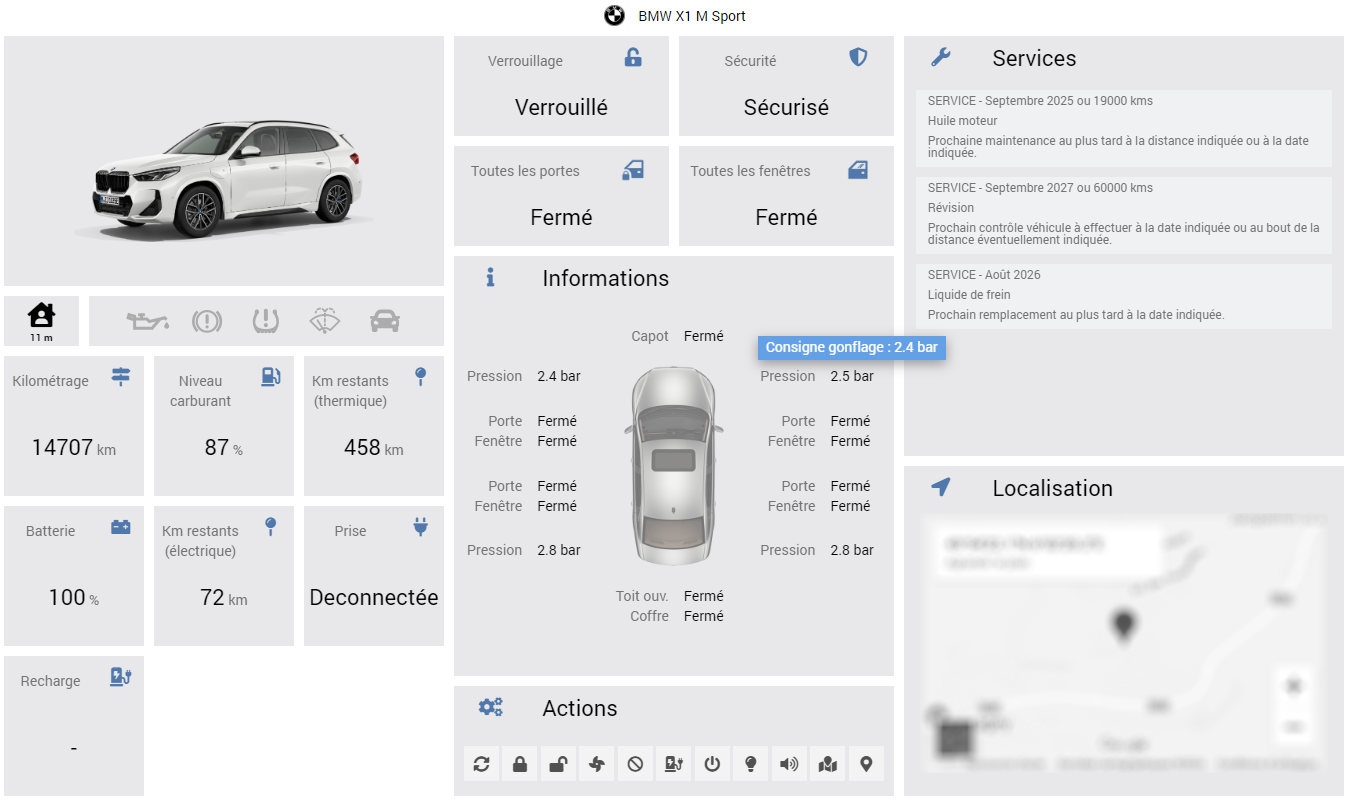
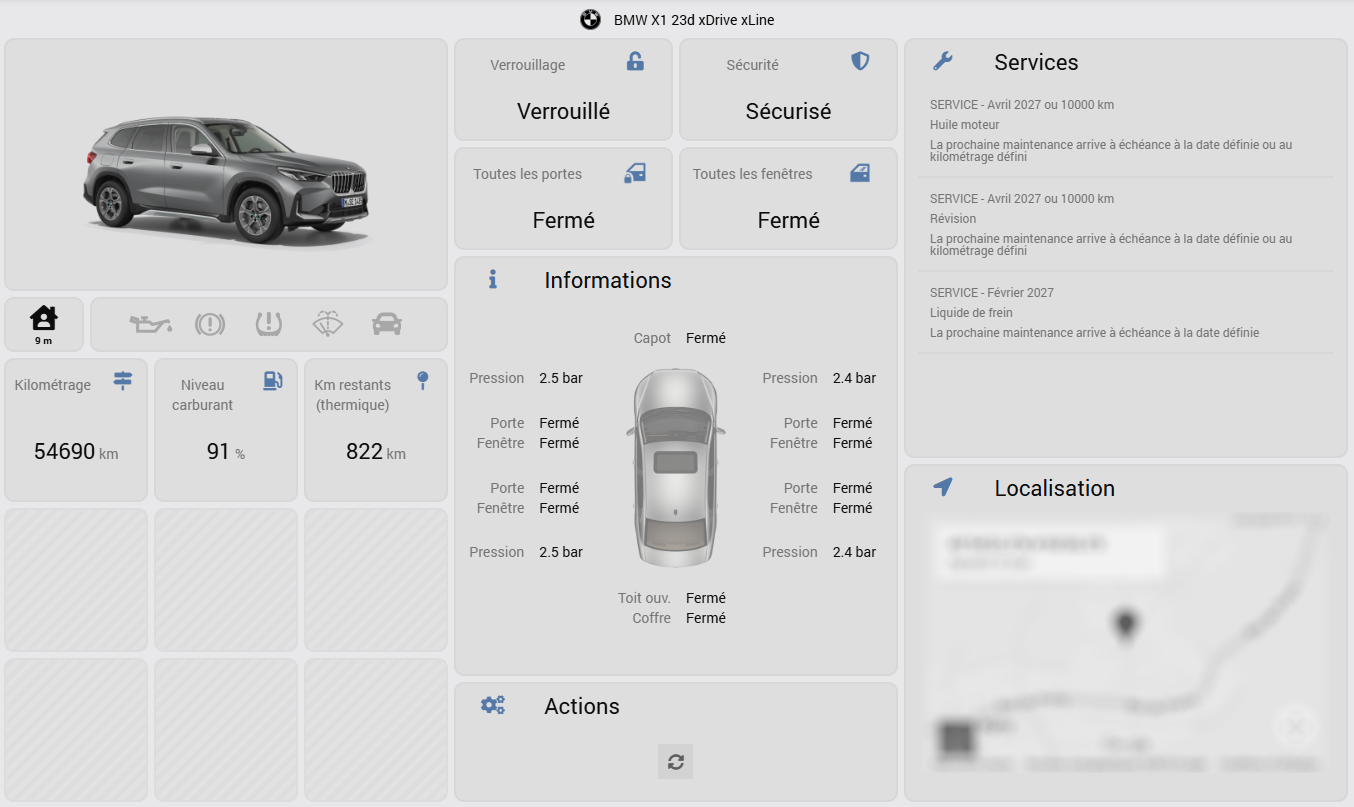
update myBMW docs

diff --git a/myBMW/fr_FR/index.md b/myBMW/fr_FR/index.md
@@ -11,19 +11,56 @@ Ce plugin vous permet d'interagir avec votre véhicule **BMW** ou **Mini** équi
 
 > **Tip**
 >
-> La **version minimale de Jeedom** nécessaire au bon fonctionnement du plugin est la **version 4.0**
-> Le plugin est d'ors et déjà compatible avec la **version 4.4** de Jeedom ainsi que les **versions Debian 11 & 12**
+> La **version minimale de Jeedom** nécessaire au bon fonctionnement du plugin est la **version 4.2**
+> Le plugin est d'ors et déjà compatible avec la **version 4.5** de Jeedom ainsi que les **versions Debian 11 & 12**
 
 
 # Principe 
 
-Ce plugin interagit avec les API BMW Connected Drive au travers du cloud, par conséquent **ce plugin nécessite une connexion Internet**.
-Il faut également détenir un abonnement en cours de validité aux services BMW Connected Drive pour votre véhicule ainsi qu'un compte utilisateur valide pour l'application "My BMW" ou "Mini".
+Ce plugin interagit avec les **API officielles BMW Connected Drive** au travers du cloud, par conséquent **ce plugin nécessite une connexion Internet**.
+Il faut également détenir un abonnement en cours de validité aux services BMW Connected Drive pour votre véhicule ainsi qu'un compte utilisateur **principal** valide pour l'application "My BMW" ou "Mini".
+
+
+# Configuration de votre compte utilisateur BMW ou Mini
+
+Avant de pouvoir utiliser le plugin, vous devez configurez votre compte utilisateur BMW. Veuillez suivre scrupuleusement les étapes suivantes :
+
+1. Connectez-vous sur le portail **BMW ConnectedDrive** (https://www.bmw.fr/fr-fr/mybmw/vehicle-overview) ou **Mini ConnectedDrive** (https://www.mini.fr/fr-fr/mymini/vehicle-overview)
+3. Cliquez sur l'icône **BMW CarData** 
+
+![CarData](../images/CarData_section.png)
+
+4. Cliquez sur le bouton **"Créer un client CarData"**
+5. Copiez **l'ID client** en lieu sûr !
+4. Attendez **30 secondes**
+6. Cliquez sur **"Demander l'accès au CarData API"**
+7. Attendez **30 secondes** (si le toggle ne repasse pas à "off" et que vous n'avez pas de message d'erreur, vous pouvez continuer, sinon vous devez recommencer cette étape)
+8. Cliquez sur **"CarData Streaming"**
+9. Attendez **30 secondes** (si le toggle ne repasse pas à "off" et que vous n'avez pas de message d'erreur, vous pouvez continuer, sinon vous devez recommencer cette étape)
+
+![CarData](../images/CarData_clientID.png)
+
+10. Allez à la section **CarData Stream**
+11. Vérifiez que l'état de la connexion est bien à **"ready"**
+
+![CarData](../images/CarData_stream.png)
+
+12. Cliquez sur le bouton **"Modifier la sélection des données"**
+13. Sélectionnez **"Toutes les catégories"** (Vehicle Status, Charging, Trip Data, etc.) puis cliquez à plusieurs reprise sur le bouton **Charger** pour afficher tous les attributs
+12. Sélectionnez **manuellement** les 244 attributs individuels ou appuyez sur F12 et entrez dans la **console développeur** et tapez : (pas de copié-collé possible)
+```
+document.querySelectorAll('label.chakra-checkbox:not([data-checked])').forEach(l => l.click());
+```
+14. Puis **sauvegardez** votre configuration
+15. Copiez **le username** en lieu sûr !
+
+**Il est important que tous les attributs soient cochés pour recevoir l'ensemble des données du véhicule.**
 
 
 # Configuration du plugin
 
-Après téléchargement du plugin, il vous suffit juste d’activer celui-ci, puis, si besoin, de configurer le cron personnalisé pour le rafraichissement des informations. Par défaut, celui-ci est sur la base de 30 min (voir chapitre 10).
+Après téléchargement du plugin, il vous suffit d’activer celui-ci, puis de configurer le client ID et le username récupérés dans l'étape précédente. Laissez les autres champs vides sauf demande express du développeur.
+Attendez ensuite la fin de l'installation des dépendances et le démarrage du démon.
 
 > **Tip**
 >
@@ -45,17 +82,14 @@ Cliquez sur la commande Ajouter pour créer un nouveau véhicule. Une fois ajout
 -   **Catégorie** : la catégorie de l’équipement
 -   **Activer** : permet de rendre votre équipement actif
 -   **Visible** : rend votre équipement visible sur le dashboard
--   **Identifiant** : indiquez votre identifiant My BMW que vous utilisez pour vous connecter sur l'application "My BMW" ou "Mini"
--   **Mot de passe** : indiquez votre mot de passe
 -   **Marque** : indiquez la marque de votre véhicule (BMW ou Mini)
 -   **VIN** : indiquez le numéro VIN ou Vehicle Identification Number (Numéro d’identification du véhicule). Vous pouvez retrouver ce numéro en case E de votre carte grise. Ce numéro est composé de 17 caractères.
--   **Paramètres de charge** : si votre véhicule électrique ou hybride rechargeable le permet, vous pouvez modifier l'objectif de recharge (en %) ainsi que la limite de courant de charge (en A).
 -   **Affichage état portes / fenêtres** : vous avez le choix entre 2 options pour l'affichage de l'état des portes et des fenêtres sur le panel : le mode texte ou le mode icône.
 -   **Couleur des icônes portes / fenêtres** : si vous avez choisi le mode icône, vous pouvez également décider de la couleur des icônes (vert ou noir & blanc).
 -   **Domicile (présence)** : vous disposez de 3 possibilités pour indiquer les coordonnées GPS de votre domicile : soit en utilisant les coordonnées renseignées dans Jeedom, soit en utilisant les coordonnées actuelles du véhicule, soit en renseignant manuellement la latitude et la longitude.
 -   **Distance max (en m)** : indiquez la distance maximale en mètre entre votre domicile et le véhicule pour que celui-ci soit considéré comme présent à votre domicile. 
 
-Il vous suffit ensuite de cliquer sur le bouton **Synchroniser** pour récupérer les informations de votre véhicule. Si celles-ci sont disponibles, vous obtiendrez le modèle, l'année, le type de motorisation ainsi qu'une image de votre véhicule.
+Il vous suffit ensuite de cliquer sur le bouton **Authentification** pour récupérer les informations de votre véhicule (Si celles-ci sont disponibles, vous obtiendrez le modèle, l'année, le type de motorisation ainsi qu'une image de votre véhicule). Une fenêtre pop-up s'ouvrira **(Attention au bloqueur de votre navigateur, désactivez le si nécessaire)** afin de vous authentifier avec les identifiants (email) et mot de passe de votre compte BMW. Vous disposez de 5 min pour cela et vous devriez obtenir un message **Connexion réussie** à l'issue.
 
 > **Tip**
 >
@@ -63,83 +97,6 @@ Il vous suffit ensuite de cliquer sur le bouton **Synchroniser** pour récupére
 > Lors de la sauvegarde, de nouvelles commandes vont se créer sur l'équipement.
 
 ![Equipement](../images/Eqpt_myBMW.png)
-
-
-# Captcha
-
-La première connexion nécessite la résolution d'un captcha. Les connexions suivantes (qui utiliseront le refresh du token) ne nécessiteront pas de captcha.
-Résolvez le captcha et copiez le "token" affiché dans la configuration de votre véhicule puis lancez la synchronisation. En cas d'erreur lors de cette première connexion, il vous faudra patienter 30min environ avant de faire un nouvel essai, le temps que votre compte soit débloqué.
-
-
-<html lang="en">
-<head>
-    <meta charset="UTF-8">
-    <meta name="viewport" content="width=device-width, initial-scale=1.0">
-    <title>Form with hCaptcha</title>
-</head>
-<body>
-    <p></p>
-    <div id="captchaResponse">
-        <div style="text-align: center;">
-            <form id="captcha_form" action="#" method="post">
-                <!-- hCaptcha widget -->
-                <div class="h-captcha" data-sitekey="7244955f-8f30-4445-adff-4fefe059f815"></div><br>
-                <button type="submit" class="btn">Submit</button>
-            </form>
-            <!-- hCaptcha script -->
-            <script src="https://hcaptcha.com/1/api.js" async defer></script>
-        </div>
-    </div>
-    <p></p>
-    <script>
-        document.getElementById('captcha_form').addEventListener('submit', function(event) {
-            event.preventDefault(); // Prevent the default form submission
-            const hCaptchaResponse = document.querySelector('[name="h-captcha-response"]').value;
-            const responseElement = document.getElementById('captchaResponse');
-            if (hCaptchaResponse) {
-                // Replace form and display the response
-                const hcaptchaDiv = document.createElement('div');
-                hcaptchaDiv.style.display = 'flex';
-                hcaptchaDiv.style.justifyContent = 'center';
-                hcaptchaDiv.style.alignItems = 'center';
-                responseElement.innerHTML = '';
-                responseElement.appendChild(hcaptchaDiv);
-                const hcaptchaPre = document.createElement('pre');
-                hcaptchaPre.style.width = '75%';
-                hcaptchaPre.style.height = '100%';
-                hcaptchaPre.style.wordBreak = 'break-all';
-                hcaptchaPre.style.whiteSpace = 'pre-wrap';
-                hcaptchaPre.style.border = '1px solid #ccc';
-                hcaptchaPre.style.borderRadius = '4px';
-                hcaptchaPre.style.padding = '10px';
-                hcaptchaPre.textContent = hCaptchaResponse;
-                hcaptchaDiv.appendChild(hcaptchaPre);
-                // Add a button to copy the data to clipboard
-                const copyButtonDiv = document.createElement('div');
-                copyButtonDiv.style.textAlign = 'center';
-                responseElement.appendChild(copyButtonDiv);
-                const copyButton = document.createElement('button');
-                copyButton.className = 'btn';
-                copyButton.textContent = 'Copy to Clipboard';
-                copyButtonDiv.appendChild(copyButton);
-                // Add event listener to button for copying the data to clipboard
-                copyButton.addEventListener('click', function() {
-                    const tempInput = document.createElement('textarea');
-                    tempInput.value = hCaptchaResponse;
-                    document.body.appendChild(tempInput);
-                    tempInput.select();
-                    document.execCommand('copy');
-                    document.body.removeChild(tempInput);
-                    alert('Copied');
-                });
-            }
-            else {
-                responseElement.innerHTML = 'No hCaptcha response received.';
-            }
-        });
-    </script>
-</body>
-</html>      
 
 
 # Données brutes
@@ -200,7 +157,7 @@ Il existe actuellement plusieurs commandes qui sont décrites ci-dessous.
 -   **Limitation du courant de charge** : donne l'information du statut de l'activation ou non d'une limite du courant de charge sur le véhicule
 -   **Coordonnées GPS** : remonte la position du véhicule sour la forme "latitude,longitude"
 -   **Dernière mise à jour** : donne la date et l'heure de la dernière connexion entre la voiture et les serveurs BMW
--   **Statut Déverrouiller** : renvoie le dernier statut recu lors d'une demande de déverrouillage. Si l'action a correctement été effectuée, le statut passe à de "PENDING" à "EXECUTED". Sinon renvoie "ERROR"
+-   **Statut Déverrouiller** : renvoie le dernier statut reçu lors d'une demande de déverrouillage. Si l'action a correctement été effectuée, le statut passe à de "PENDING" à "EXECUTED". Sinon renvoie "ERROR"
 -   **Statut Verrouiller**
 -   **Statut Charger**
 -   **Statut Stop charger**
@@ -228,6 +185,10 @@ Il existe actuellement plusieurs commandes qui sont décrites ci-dessous.
 -   **Rechercher** : localise le véhicule en temps réel et l'affiche sur une carte googlemaps
 -   **Envoi POI** : envoi d'un point d'intérêt (POI) dans le centre de messages du véhicule en saisissant le nom, la latitude et la longitude du lieu
 
+> **ATTENTION**
+>
+> A date, seule la fonction **Rafraichir** est opérationnelle. Les autres actions seront de nouveau fonctionnelles lorsque les API BMW le permettront !
+
 
 # Dashboard
 
@@ -252,14 +213,16 @@ Si vous avez coché l'option **Afficher le panneau desktop** dans la page de con
 
 ## Automatique
 
-Un CRON personnalisable est automatiquement créé (sur une base de 30 min par défaut) comme indiqué dans la configuration du plugin.
-
-**Attention** : vous pouvez modifier cette valeur de 30 min mais gare au nombre de requêtes autorisées par BMW sur leurs serveurs ! Je déconseille fortement de descendre en dessous de 15 min pour le moment. Votre adresse IP risque d'être bannie quelques heures ! Si vous êtes dans ce cas, désactivez cette tâche dans le moteur de tâches de Jeedom (menu Régalges / Système), patientez quelques heures puis resynchronisez et enfin réactivez la tâche. Cela devrait fonctionner.
-
+Grâce au stream MQTT, vous recevez la majorité des informations de votre véhicule en temps réel (kilométrage, carburant, batterie, état de verrouillage du véhicule, des portes et fenêtres, localisation, ...) !
+Un CRON est également créé (sur une base de 60 minutes) pour récupérer les informations non streamables (messages de contrôle, de services, historique de charge).
 
 ## Manuel
 
-Vous pouvez à tout moment utiliser la commande **Rafraichir** afin de rafraichir les statuts de véhicule.
+Vous pouvez à tout moment utiliser la commande **Rafraichir** afin de récupérer les statuts de véhicule.
+
+>**Attention**
+>
+>BMW autorise seulement 50 requêtes par jours donc ne rafraichissez pas manuellement trop souvent (le CRON actuel utilise 24 requêtes par jour) au risque d'être bloqué jusqu'au lendemain.
 
 
 # Roadmap & support
@@ -267,14 +230,15 @@ Vous pouvez à tout moment utiliser la commande **Rafraichir** afin de rafraichi
 Ce plugin évoluera au fil du temps en fonction de vos demandes et des possibilités des API BMW Connected Drive.
 
 Les prochaines versions verront arriver les features suivantes :
--   ...
+-   Ajout de nouvelles fonctionnalités en fonction des possibilités offertes par les API
 -   Traduction du plugin en anglais
+-   ...
 
 > **Tip**
 >
 >Vous pouvez faire votre demande d'amélioration en créant une issue "enhancement" sur [GitHub](https://github.com/Xav-74/myBMW/issues/new).
 >N'hésitez pas non plus à venir échanger sur ce plugin sur le Community Jeedom !
 
-En cas de dysfonctionnement, vous pouvez créer directement un sujet sur le Community depuis la page principale du plugin. Les informations utiles de Jeedom et du plugin sont automatiquement ajoutées. N'hésitez pas également à copier les logs verisure (mode debug) pour une résolution plus rapide !
+En cas de dysfonctionnement, vous pouvez créer directement un sujet sur le Community depuis la page principale du plugin. Les informations utiles de Jeedom et du plugin sont automatiquement ajoutées. N'hésitez pas également à copier les logs myBMW, myBMW_daemon, myBMW_update (mode debug) pour une résolution plus rapide !
 
 ![Community](../images/community.png)

diff --git a/myBMW/fr_FR/changelog.md b/myBMW/fr_FR/changelog.md
@@ -12,6 +12,15 @@ pluginId: myBMW
 **Remarque** : en cas de mise à jour non listée ici, c'est que celle-ci ne comporte que des changements mineurs du type documentation ou corrections de bugs mineurs.
 
 
+# 2025-11-09
+
+Ajout des fonctions suivantes :
+ - Bascule sur les **API officielles BMW**
+ - Mise en place du **stream MQTT** pour la récupération temps réel des informations
+
+ **ATTENTION** Il s'agit d'une mise à jour majeure du plugin qui nécessite une reconfiguration complète de celui-ci. Merci de bien lire la documentation et suivre toutes les étapes décrites une à une (notamment les actions à réaliser sur votre compte utilisateur BMW ou Mini)
+
+
 # 2025-09-12
 
 Ajout des fonctions suivantes :
